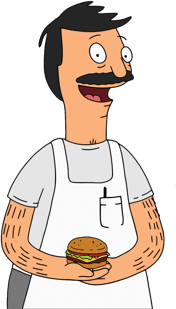
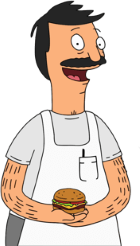
resize body img and style footer

diff --git a/css/main.css b/css/main.css
@@ -1,1 +1,1 @@
-@import url('https://fonts.googleapis.com/css?family=Roboto:400,500&display=swap');body{font-family:'Roboto',sans-serif}nav{background-color:#f8df1f;height:100px}nav ul li{display:inline}.header{width:100%;height:200px;background-image:url(../img/banner-bg-2.jpg);background-repeat:repeat}.header img{max-width:200px}.btn-primary{background-color:#f8df1f;border-color:#f8df1f}.btn-primary:hover{background-color:#f8df1f;border-color:#f8df1f}h2{font-weight:500;color:#050500;font-size:30px;text-transform:uppercase;padding-top:2rem}.heading-red{color:#ee252f}footer{background-color:#080801;height:100px;border-top:10px}footer img{max-width:200px;margin:auto}
+@import url('https://fonts.googleapis.com/css?family=Roboto:400,500&display=swap');body{font-family:'Roboto',sans-serif;font-size:16px;color:#050500}nav{background-color:#f8df1f;height:100px}nav ul li{display:inline}.header{width:100%;height:200px;background-image:url(../img/banner-bg-2.jpg);background-repeat:repeat}.header img{max-width:200px}.btn-primary{color:#080801;background-color:#f8df1f;border-color:#f8df1f}.btn-primary:hover{background-color:#f8df1f;border-color:#f8df1f}h2{font-weight:500;font-size:30px;text-transform:uppercase;padding-top:2rem}.heading-red{color:#ee252f}.best-burgers{padding-bottom:1.7rem}.best-burgers img{padding:2.5rem 2rem}.dine-in{background-color:#f3f3f3}.dine-in img{padding:1.5rem 2rem 1.5rem 3rem}footer{background-color:#080801;height:100px}footer img{max-width:200px;margin:auto}.border-top{border-top:8px solid #f8df1f !important}

diff --git a/less/main.less b/less/main.less
@@ -3,6 +3,8 @@
 
 body{
     font-family: @roboto;
+    font-size: 16px;
+    color: #050500;
 }
 nav{
     background-color: @yellow;
@@ -23,6 +25,7 @@ nav{
     }
 }
 .btn-primary {
+    color: @black;
     background-color: @yellow;
     border-color:@yellow;
     &:hover{
@@ -32,7 +35,6 @@ nav{
 }
 h2{
     font-weight:500;
-    color: #050500;
     font-size:30px ;
     text-transform: uppercase;
     padding-top: 2rem;
@@ -40,12 +42,26 @@ h2{
 .heading-red{
     color: #ee252f;
 }
+.best-burgers{
+    padding-bottom: 1.7rem;
+    img{
+        padding: 2.5rem 2rem;
+    }
+}
+.dine-in{
+    background-color: @white;
+    img{
+        padding: 1.5rem 2rem 1.5rem 3rem;
+    }
+}
 footer{
     background-color: @black;
     height: 100px;
-    border-top: 10px;
     img{
         max-width: 200px;
         margin: auto;
     }
+}
+.border-top {
+    border-top: 8px solid @yellow !important;
 }

diff --git a/index.html b/index.html
@@ -21,8 +21,8 @@
       </ul>
     </nav>
 
-    <div class="container-fluid">
-      <div class="header overlay banner-color container-fluid">
+    <div >
+      <div class="header jumbotron jumbotron-fluid">
         <img src="img/logo.png" alt="Bobs Burgers Logo" >
         <button class="btn btn-primary">Order Now</button>
       </div>
@@ -37,7 +37,7 @@
             <img src="img/bobs-burger.png" alt="image of illustrated burger">
           </figure>
         </section>
-        <section class="row">
+        <section class="row dine-in" >
           <figure class="col">
             <img src="img/bob-headshot.png" alt="Photo of Bob from Bob Burgers">
           </figure>
@@ -50,7 +50,7 @@
       </div>
     </div>
 
-    <footer>
+    <footer class="border-top">
       <img src="img/logo.png" alt="Bobs Burgers Logo">
     </footer>
 
